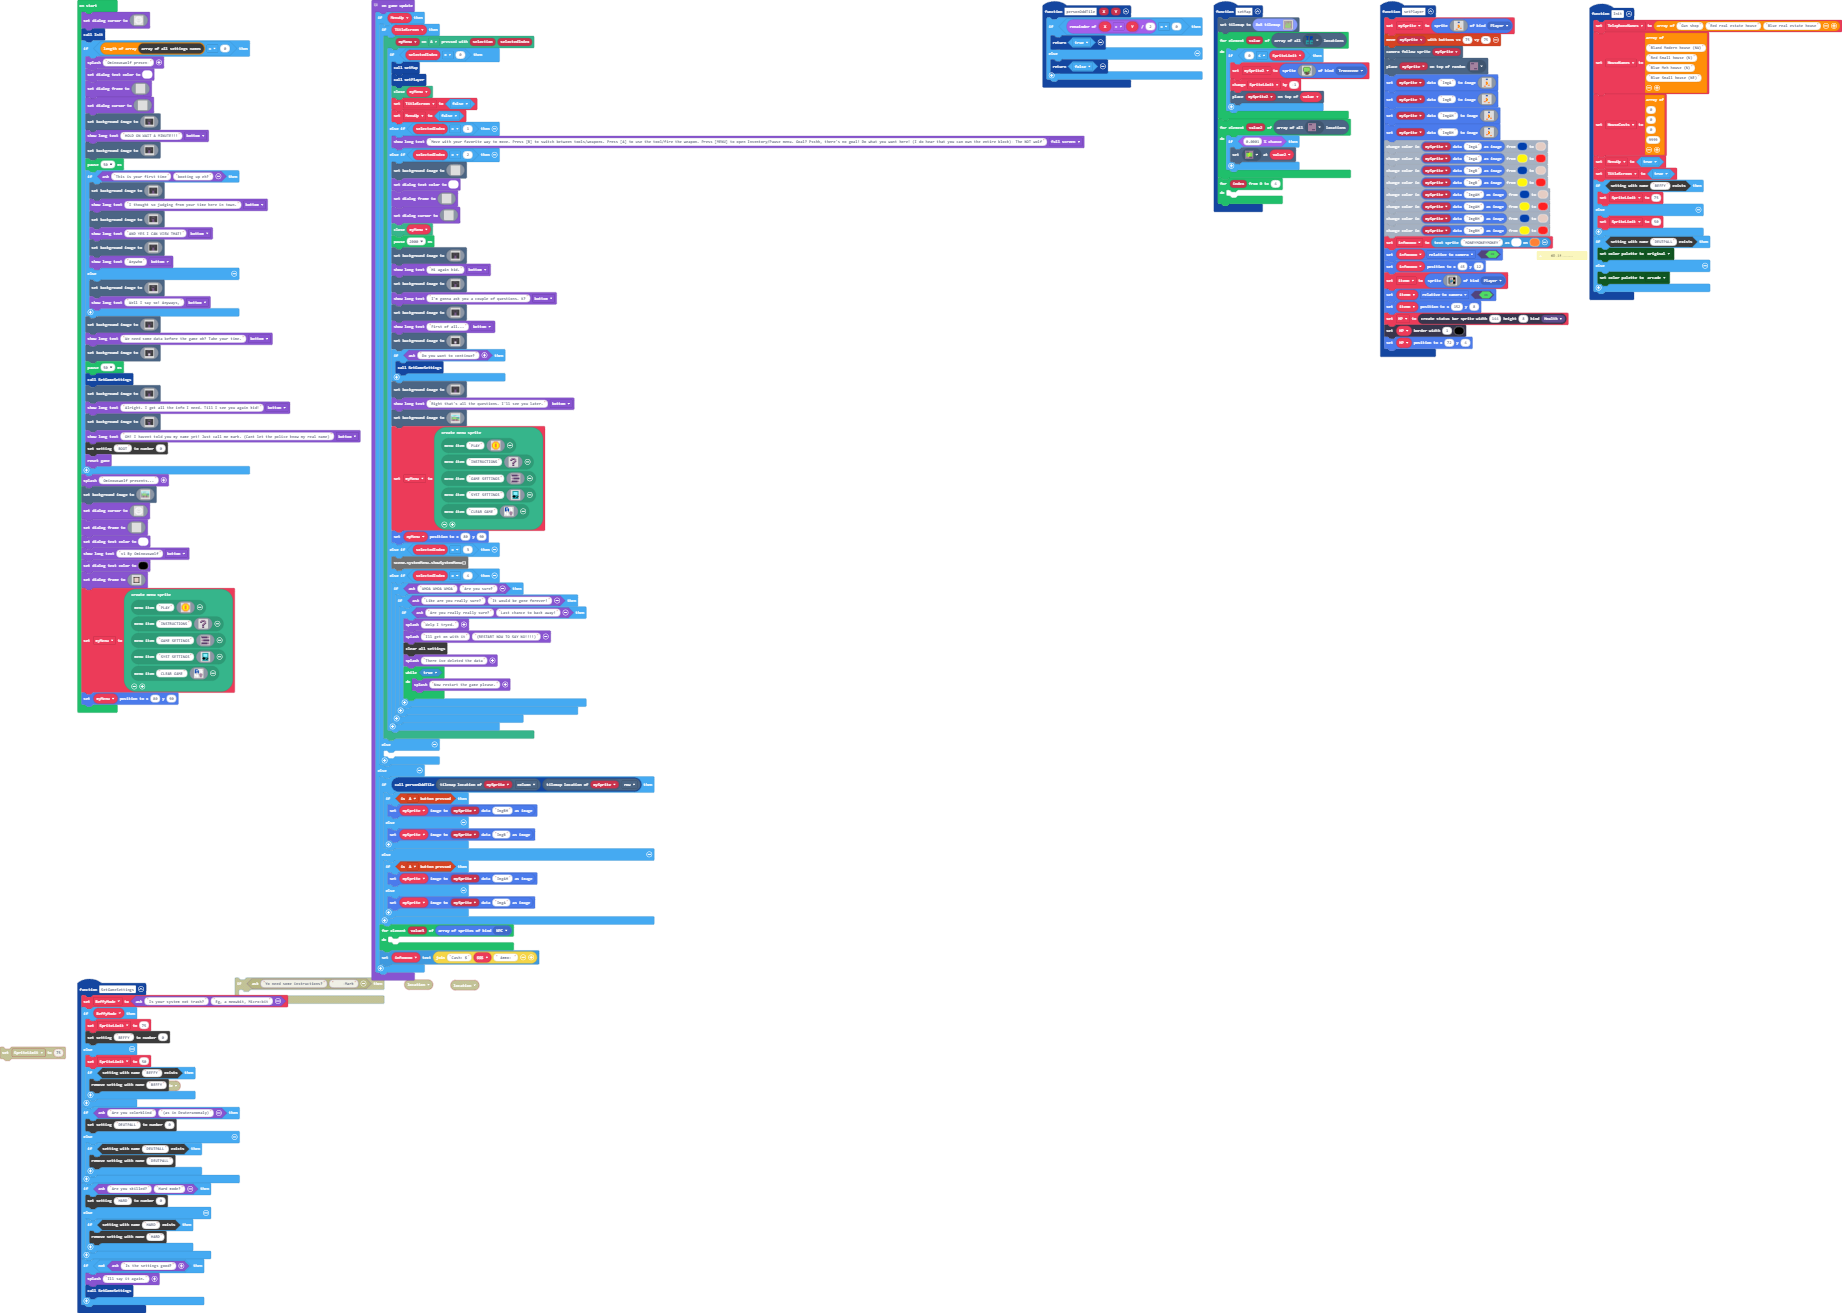
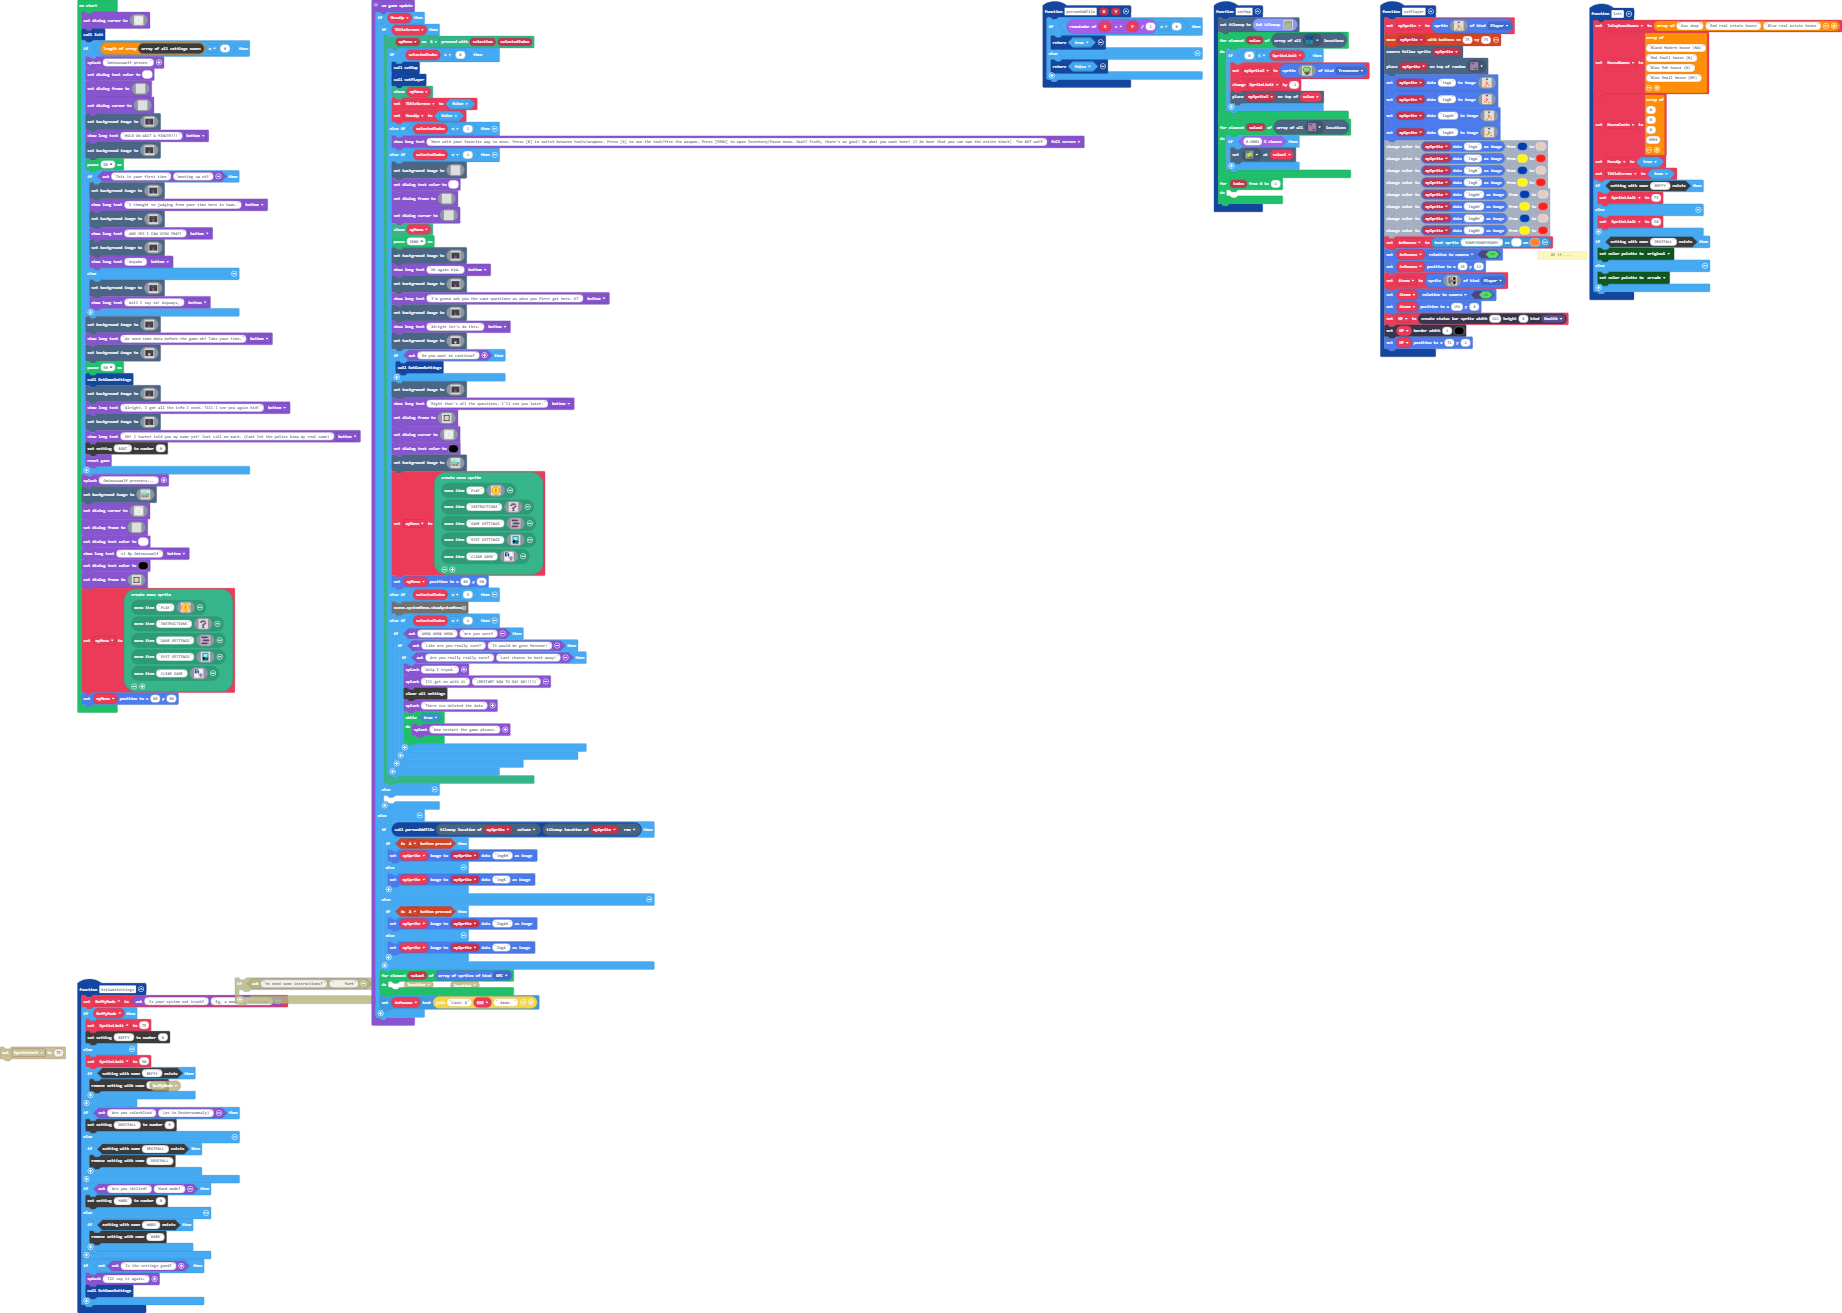
Fixed a bug for text boxes in the main menu.

diff --git a/main.ts b/main.ts
@@ -338,15 +338,18 @@ game.onUpdate(function () {
                     scene.setBackgroundImage(assets.image`Mark`)
                     game.showLongText("Hi again kid.", DialogLayout.Bottom)
                     scene.setBackgroundImage(assets.image`MarkQestionnn`)
-                    game.showLongText("I'm gonna ask you a couple of questions. K?", DialogLayout.Bottom)
+                    game.showLongText("I'm gonna ask you the same questions as when you first got here. K?", DialogLayout.Bottom)
                     scene.setBackgroundImage(assets.image`Mark`)
-                    game.showLongText("First of all...", DialogLayout.Bottom)
+                    game.showLongText("Alright let's do this.", DialogLayout.Bottom)
                     scene.setBackgroundImage(assets.image`MarkRED`)
                     if (game.ask("Do you want to continue?")) {
                         SetGameSettings()
                     }
                     scene.setBackgroundImage(assets.image`Mark`)
                     game.showLongText("Right that's all the questions. I'll see you later.", DialogLayout.Bottom)
+                    game.setDialogFrame(assets.image`TextBox`)
+                    game.setDialogCursor(assets.image`PressA`)
+                    game.setDialogTextColor(15)
                     scene.setBackgroundImage(assets.image`TitleEnlarge`)
                     myMenu = miniMenu.createMenu(
                     miniMenu.createMenuItem("PLAY", assets.image`playIcon`),
